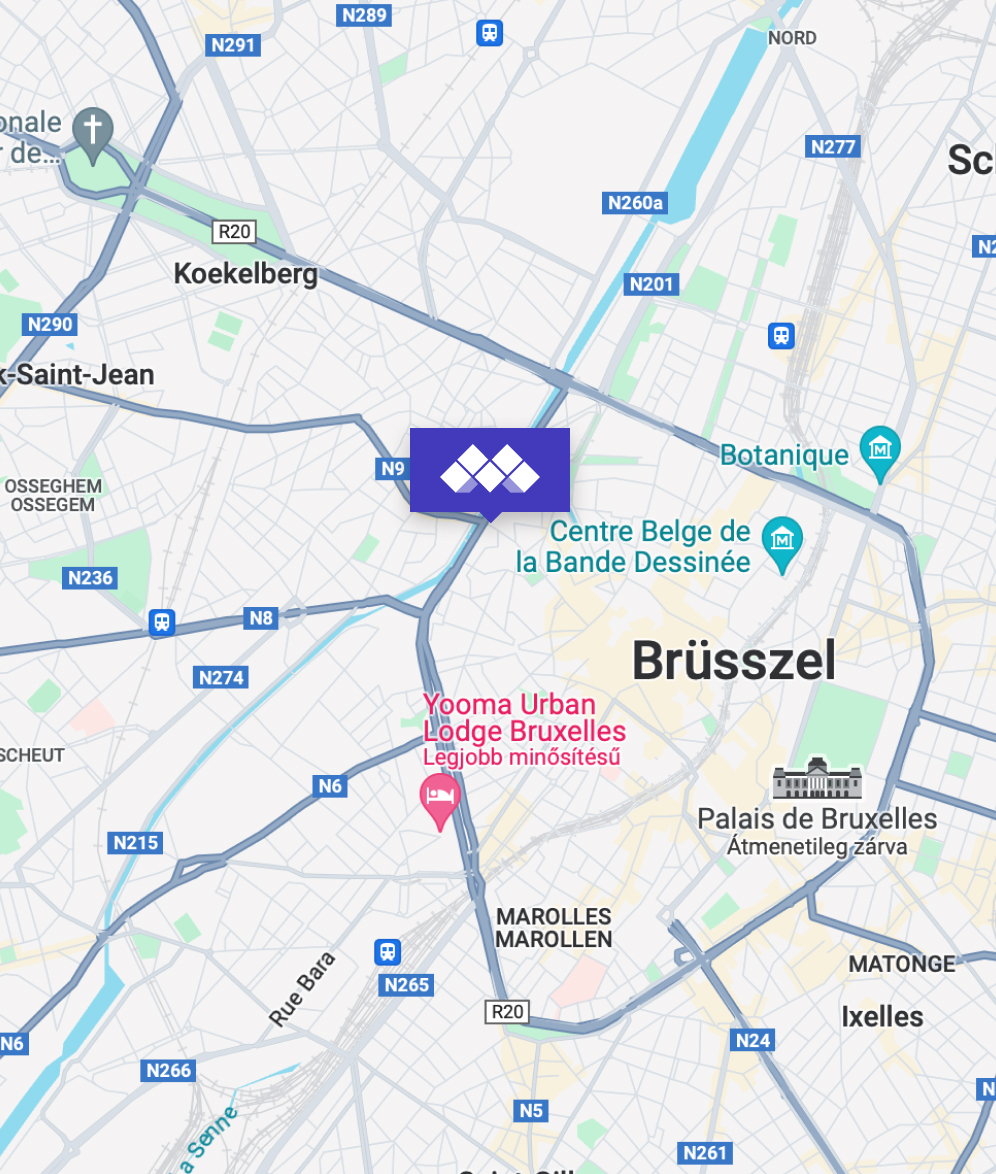
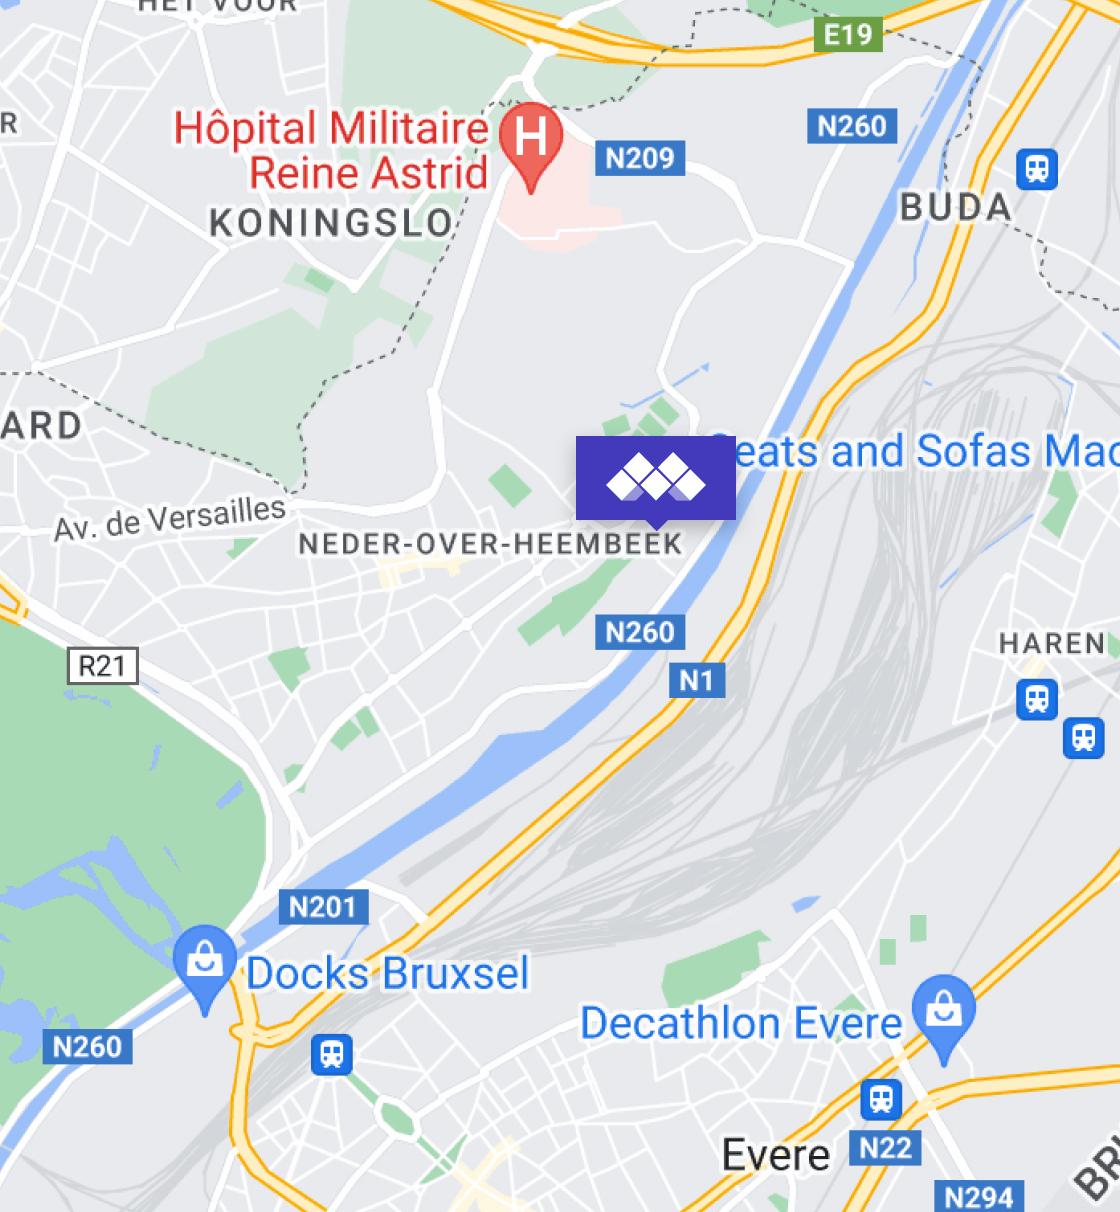
fix: map fixes

diff --git a/src/lib/data/location.ts b/src/lib/data/location.ts
@@ -12,7 +12,9 @@ export const locationPageData: LocationPageData = {
   },
   BusSchedule: {
     title: 'Bus Schedule',
-    description: `There are daily shuttle buses that take all attendees from Downtown Brussels to the SILO, where the Modular Summit is held. Ensure you have your QR code handy at all times, even if you have a bracelet. Shuttle buses are free. In the evening, they depart from Modular Summit back to Downtown Brussels. Pick up location in the morning is Quai des Péniches 51000 Bruxelles, Belgium. We recommend using the buses or the shuttle boats (see the schedule on next section, a few minutes away from bus stop) to arrive on time as Ubers might be scarce in the city during the week.`
+    description: `There are daily shuttle buses that take all attendees from Downtown Brussels to the SILO, where the Modular Summit is held. Ensure you have your QR code handy at all times, even if you have a bracelet. Shuttle buses are free. In the evening, they depart from Modular Summit back to Downtown Brussels. Pick up location in the morning is Quai des Péniches 51000 Bruxelles, Belgium. We recommend using the buses or the shuttle boats (see the schedule on next section, a few minutes away from bus stop) to arrive on time as Ubers might be scarce in the city during the week.`,
+    mapLink: 'https://maps.app.goo.gl/hJhovpkkdCKoxy7g7',
+    mapLinkText: 'Open in Google Maps'
   },
   BusSchedule1: {
     title: 'Downtown (Quai des péniches 5) to Modular Summit (SILO)',
@@ -49,7 +51,7 @@ export const locationPageData: LocationPageData = {
       { departureTime: '20:45 PM', arrivalTime: '21:15 PM' },
       { departureTime: '21:00 PM', arrivalTime: '21:30 PM' },
       { departureTime: '21:15 PM', arrivalTime: '21:45 PM' },
-      { departureTime: '21:30 PM', arrivalTime: '22:00 PM' },
+      { departureTime: '21:30 PM', arrivalTime: '22:00 PM' }
     ]
   },
   BusSchedule3: {
@@ -59,27 +61,29 @@ export const locationPageData: LocationPageData = {
     arrivalLocation: 'Arrival at Quai des péniches 5',
     rows: [
       { departureTimes: ['18:00 PM', '21:45 PM', '01:30 AM'], arrivalTimes: ['18:30 PM', '22:15 PM', '02:00 AM'] },
-	{ departureTimes: ['18:15 PM', '22:00 PM', '01:45 AM'], arrivalTimes: ['18:45 PM', '22:30 PM', '02:15 AM'] },
-	{ departureTimes: ['18:30 PM', '22:15 PM', '02:00 AM'], arrivalTimes: ['19:00 PM', '22:45 PM', '02:30 AM'] },
-	{ departureTimes: ['18:45 PM', '22:30 PM', '02:15 AM'], arrivalTimes: ['19:15 PM', '23:00 PM', '02:45 AM'] },
-	{ departureTimes: ['19:00 PM', '22:45 PM', '02:30 AM'], arrivalTimes: ['19:30 PM', '23:15 PM', '03:00 AM'] },
-	{ departureTimes: ['19:15 PM', '23:00 PM', ''], arrivalTimes: ['19:45 PM', '23:30 PM', ''] },
-	{ departureTimes: ['19:30 PM', '23:15 PM', ''], arrivalTimes: ['20:00 PM', '23:45 PM', ''] },
-	{ departureTimes: ['19:45 PM', '23:30 PM', ''], arrivalTimes: ['20:15 PM', '00:00 AM', ''] },
-	{ departureTimes: ['20:00 PM', '23:45 PM', ''], arrivalTimes: ['20:30 PM', '00:15 AM', ''] },
-	{ departureTimes: ['20:15 PM', '00:00 AM', ''], arrivalTimes: ['20:45 PM', '00:30 AM', ''] },
-	{ departureTimes: ['20:30 PM', '00:15 AM', ''], arrivalTimes: ['21:00 PM', '00:45 AM', ''] },
-	{ departureTimes: ['20:45 PM', '00:30 AM', ''], arrivalTimes: ['21:15 PM', '01:00 AM', ''] },
-	{ departureTimes: ['21:00 PM', '00:45 AM', ''], arrivalTimes: ['21:30 PM', '01:15 AM', ''] },
-	{ departureTimes: ['21:15 PM', '01:00 AM', ''], arrivalTimes: ['21:45 PM', '01:30 AM', ''] },
-	{ departureTimes: ['21:30 PM', '01:15 AM', ''], arrivalTimes: ['22:00 PM', '01:45 AM', ''] },
-	{ departureTimes: ['21:45 PM', '01:30 AM', ''], arrivalTimes: ['22:15 PM', '02:00 AM', ''] },
-	{ departureTimes: ['22:00 PM', '01:45 AM', ''], arrivalTimes: ['22:30 PM', '02:15 AM', ''] },
-	{ departureTimes: ['22:15 PM', '02:00 AM', ''], arrivalTimes: ['22:45 PM', '02:30 AM', ''] },
+      { departureTimes: ['18:15 PM', '22:00 PM', '01:45 AM'], arrivalTimes: ['18:45 PM', '22:30 PM', '02:15 AM'] },
+      { departureTimes: ['18:30 PM', '22:15 PM', '02:00 AM'], arrivalTimes: ['19:00 PM', '22:45 PM', '02:30 AM'] },
+      { departureTimes: ['18:45 PM', '22:30 PM', '02:15 AM'], arrivalTimes: ['19:15 PM', '23:00 PM', '02:45 AM'] },
+      { departureTimes: ['19:00 PM', '22:45 PM', '02:30 AM'], arrivalTimes: ['19:30 PM', '23:15 PM', '03:00 AM'] },
+      { departureTimes: ['19:15 PM', '23:00 PM', ''], arrivalTimes: ['19:45 PM', '23:30 PM', ''] },
+      { departureTimes: ['19:30 PM', '23:15 PM', ''], arrivalTimes: ['20:00 PM', '23:45 PM', ''] },
+      { departureTimes: ['19:45 PM', '23:30 PM', ''], arrivalTimes: ['20:15 PM', '00:00 AM', ''] },
+      { departureTimes: ['20:00 PM', '23:45 PM', ''], arrivalTimes: ['20:30 PM', '00:15 AM', ''] },
+      { departureTimes: ['20:15 PM', '00:00 AM', ''], arrivalTimes: ['20:45 PM', '00:30 AM', ''] },
+      { departureTimes: ['20:30 PM', '00:15 AM', ''], arrivalTimes: ['21:00 PM', '00:45 AM', ''] },
+      { departureTimes: ['20:45 PM', '00:30 AM', ''], arrivalTimes: ['21:15 PM', '01:00 AM', ''] },
+      { departureTimes: ['21:00 PM', '00:45 AM', ''], arrivalTimes: ['21:30 PM', '01:15 AM', ''] },
+      { departureTimes: ['21:15 PM', '01:00 AM', ''], arrivalTimes: ['21:45 PM', '01:30 AM', ''] },
+      { departureTimes: ['21:30 PM', '01:15 AM', ''], arrivalTimes: ['22:00 PM', '01:45 AM', ''] },
+      { departureTimes: ['21:45 PM', '01:30 AM', ''], arrivalTimes: ['22:15 PM', '02:00 AM', ''] },
+      { departureTimes: ['22:00 PM', '01:45 AM', ''], arrivalTimes: ['22:30 PM', '02:15 AM', ''] },
+      { departureTimes: ['22:15 PM', '02:00 AM', ''], arrivalTimes: ['22:45 PM', '02:30 AM', ''] }
     ]
   },
   BoatSchedule: {
     title: 'Boat Schedule',
+    mapLink: 'https://maps.app.goo.gl/DMN99vib6nzUjkuM9',
+    mapLinkText: 'Open in Google Maps',
     description: `There are daily shuttle boats that take all attendees from Downtown Brussels to the SILO, where the Modular Summit is held. Ensure you have your QR code handy at all times, even if you have a bracelet. Shuttle buses are free. In the evening, they depart from Modular Summit back to Downtown Brussels. Pick up location in the morning is  Avenue du Port 6, 1080, Bruxelles, Belgium. We recommend using the boats or the shuttle buses (see the schedule above, a few minutes away from boat port) to arrive on time as Ubers might be scarce in the city during the week.`
   },
   BoatSchedule1: {
@@ -184,13 +188,13 @@ export const locationPageData: LocationPageData = {
         departureFromSILO: '21:20 PM',
         travelTime2: '00:30',
         departureFromAuPort2: '21:50 PM'
-      },
+      }
     ]
   },
   BoatSchedule2: {
     date: 'Day 13 July 2024',
     rows: [
-     {
+      {
         waitingTime: '',
         departureFromAuPort: '08:30 AM',
         travelTime: '0:30',
@@ -309,7 +313,7 @@ export const locationPageData: LocationPageData = {
         departureFromSILO: '00:10 AM',
         travelTime2: '00:30',
         departureFromAuPort2: '01:40 AM'
-      },
+      }
     ]
   }
 }

diff --git a/src/sections/BoatSchedule.tsx b/src/sections/BoatSchedule.tsx
@@ -7,10 +7,27 @@ const BoatSchedule = () => {
       <div className="mx-auto max-w-[1280px]">
         {/* Bus Schedule */}
         <div className="intro mb-12 grid grid-cols-1 gap-4 max-2xl:px-7 md:mb-16 md:grid-cols-2">
-          <h2>{locationPageData.BoatSchedule.title}</h2>
+          <div>
+            <h2>{locationPageData.BoatSchedule.title}</h2>
+            <a className="flex space-x-2 text-[#423ABB] underline" href={locationPageData.BoatSchedule.mapLink} target="_blank">
+              <span>{locationPageData.BoatSchedule.mapLinkText} </span>
+              <svg className="h-[20px] w-[20px] md:h-[23px] md:w-[23px]" viewBox="0 0 23 23" fill="none" xmlns="http://www.w3.org/2000/svg">
+                <path d="M14.375 2.875H20.125V8.625" stroke="#423ABB" strokeWidth={2} strokeLinecap="round" strokeLinejoin="round" />
+                <path d="M9.58301 13.4167L20.1247 2.875" stroke="#423ABB" strokeWidth={2} strokeLinecap="round" strokeLinejoin="round" />
+                <path
+                  d="M17.25 12.4583V18.2083C17.25 18.7167 17.0481 19.2042 16.6886 19.5636C16.3292 19.9231 15.8417 20.125 15.3333 20.125H4.79167C4.28334 20.125 3.79582 19.9231 3.43638 19.5636C3.07693 19.2042 2.875 18.7167 2.875 18.2083V7.66667C2.875 7.15834 3.07693 6.67082 3.43638 6.31138C3.79582 5.95193 4.28334 5.75 4.79167 5.75H10.5417"
+                  stroke="#423ABB"
+                  strokeWidth={2}
+                  strokeLinecap="round"
+                  strokeLinejoin="round"
+                />
+              </svg>
+            </a>
+          </div>
+
           <p>{locationPageData.BoatSchedule.description}</p>
         </div>
-        <div className="layer-1 h-2050px] mb-12 md:h-[600px]" />
+        <div className="layer-1 mb-12 h-[2050px]" />
         <div className="mb-12 h-full w-full">
           <div className="mx-auto max-w-[1280px]">
             <div className="bg-[#77BFF7] p-4 text-white">
@@ -36,7 +53,7 @@ const BoatSchedule = () => {
                     </th>
                     <th className="h-20 w-full min-w-[150px] text-nowrap border-b border-r px-3.5 py-4 text-center align-top font-semibold">Travel Time</th>
                     <th className="h-20 w-full min-w-[150px] text-nowrap border-b px-3.5 py-4 text-center align-top font-semibold">
-                      Arrival at 
+                      Arrival at
                       <br />
                       Av du Port 6.
                     </th>
@@ -85,7 +102,7 @@ const BoatSchedule = () => {
                     </th>
                     <th className="h-20 w-full min-w-[150px] text-nowrap border-b border-r px-3.5 py-4 text-center align-top font-semibold">Travel Time</th>
                     <th className="h-20 w-full min-w-[150px] text-nowrap border-b px-3.5 py-4 text-center align-top font-semibold">
-                     Arrival at 
+                      Arrival at
                       <br />
                       Av du Port 6.
                     </th>

diff --git a/src/sections/BusSchedule.tsx b/src/sections/BusSchedule.tsx
@@ -7,7 +7,23 @@ const BusSchedule = () => {
       <div className="mx-auto max-w-[1280px]">
         {/* Bus Schedule */}
         <div className="intro mb-12 grid grid-cols-1 gap-4 max-2xl:px-7 md:mb-16 md:grid-cols-2">
-          <h2>{locationPageData.BusSchedule.title}</h2>
+          <div>
+            <h2>{locationPageData.BusSchedule.title}</h2>
+            <a className="flex space-x-2 text-[#423ABB] underline" href={locationPageData.BusSchedule.mapLink} target="_blank">
+              <span>{locationPageData.BusSchedule.mapLinkText} </span>
+              <svg className="h-[20px] w-[20px] md:h-[23px] md:w-[23px]" viewBox="0 0 23 23" fill="none" xmlns="http://www.w3.org/2000/svg">
+                <path d="M14.375 2.875H20.125V8.625" stroke="#423ABB" strokeWidth={2} strokeLinecap="round" strokeLinejoin="round" />
+                <path d="M9.58301 13.4167L20.1247 2.875" stroke="#423ABB" strokeWidth={2} strokeLinecap="round" strokeLinejoin="round" />
+                <path
+                  d="M17.25 12.4583V18.2083C17.25 18.7167 17.0481 19.2042 16.6886 19.5636C16.3292 19.9231 15.8417 20.125 15.3333 20.125H4.79167C4.28334 20.125 3.79582 19.9231 3.43638 19.5636C3.07693 19.2042 2.875 18.7167 2.875 18.2083V7.66667C2.875 7.15834 3.07693 6.67082 3.43638 6.31138C3.79582 5.95193 4.28334 5.75 4.79167 5.75H10.5417"
+                  stroke="#423ABB"
+                  strokeWidth={2}
+                  strokeLinecap="round"
+                  strokeLinejoin="round"
+                />
+              </svg>
+            </a>
+          </div>
           <p>{locationPageData.BusSchedule.description}</p>
         </div>
         <div className="mb-12 grid grid-cols-1 gap-y-10 lg:grid-cols-3 lg:gap-x-4">
@@ -81,7 +97,7 @@ const BusSchedule = () => {
               <div className="mx-auto max-w-[1280px]">
                 <h2 className="text-2xl font-bold leading-[1.25em] tracking-[-0.48px] text-black lg:text-[28px] lg:tracking-[-0.56px]"></h2>
                 <div className="bg-[#234735] p-4 text-white">
-                  <h3 className="mb-2 text-xl font-semibold">{locationPageData.BusSchedule3.title}</h3>
+                  <h3 className="l:max-w-[350px] mb-2 text-xl font-semibold lg:max-w-[350px]">{locationPageData.BusSchedule3.title}</h3>
                   <p className="text-sm">{locationPageData.BusSchedule3.date}</p>
                 </div>
                 <div className="overflow-x-auto">

diff --git a/src/styles/main.scss b/src/styles/main.scss
@@ -261,9 +261,9 @@
     background: url(../../public/location/timetable-map-2-mobile.jpg) no-repeat scroll bottom right transparent;
     background-size: cover;
   }
-  @screen lg {
+  @screen md {
     .layer-1 {
-      height: 100%;
+      height: 1000px;
       width: 100%;
       background: url(../../public/location/timetable-map-2.jpg) no-repeat scroll bottom right transparent;
       background-size: cover;

diff --git a/src/lib/data/interfaces/location.ts b/src/lib/data/interfaces/location.ts
@@ -5,6 +5,8 @@ interface HeroSectionSecondary {
 interface BusSchedule {
   title: string
   description: string
+  mapLink: string
+  mapLinkText: string
 }
 
 interface Location {
